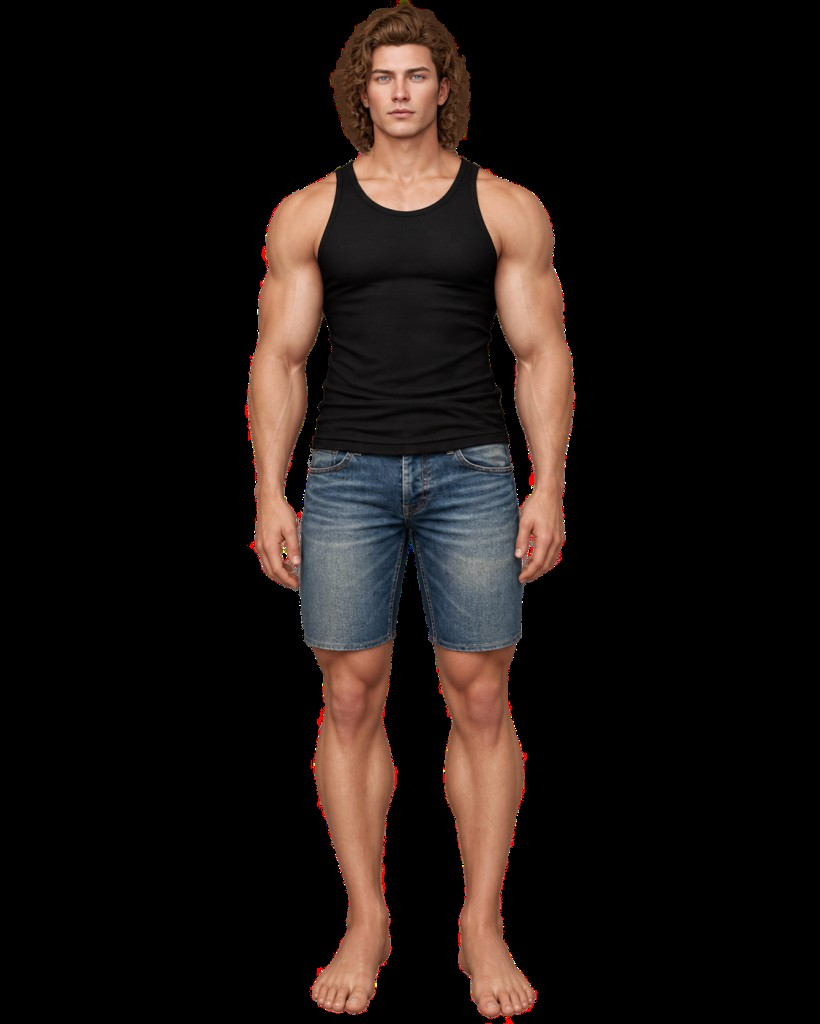
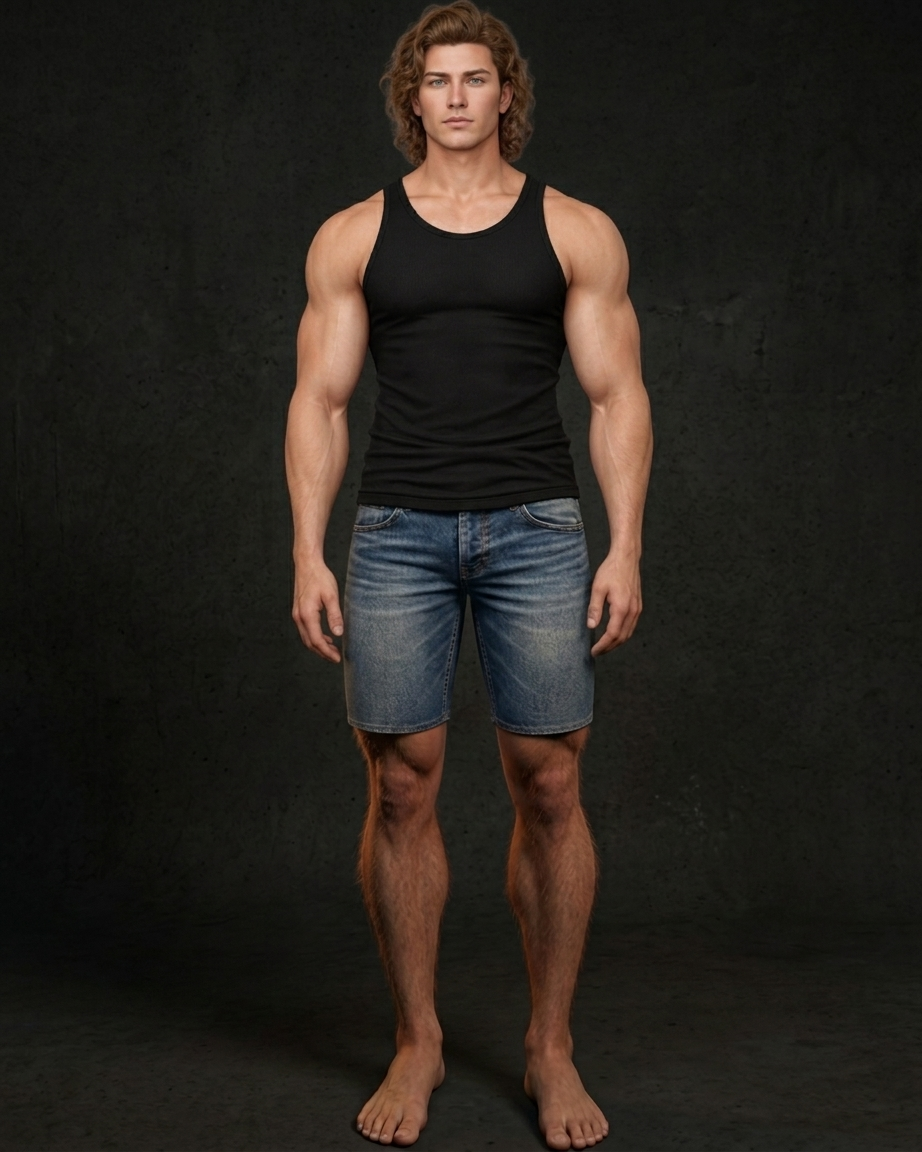
added xander to bat

diff --git a/index.html b/index.html
@@ -1012,12 +1012,12 @@ function getGender(name) {
     const c = CHARACTERS.find(c => c.name === String(name || "").split(" ")[0]);
     return c ? c.gender : null;
 }
-const TRANSFORMS = ["Statue", "Cow", "Cat", "Dog", "Werewolf", "Fox", "Horse", "Pig", "Gender", "Puppet", "Bunny","Otter","Eevee","Squirrel","Robot","Doll","Dragon"];
+const TRANSFORMS = ["Statue", "Cow", "Cat", "Dog", "Werewolf", "Fox", "Horse", "Pig", "Gender", "Puppet", "Bunny","Otter","Eevee","Squirrel","Robot","Doll","Dragon","Bat"];
 
 const CHARACTER_MANIFEST = {
     "Alex": ["Bunny", "Pig","Dog","Cat","Gender"],
     "Roz": ["Werewolf","Cow","Eevee"],
-    "Xander": ["Robot", "Werewolf","Otter"],
+    "Xander": ["Robot", "Werewolf","Otter","Bat"],
     "Siobhán": ["Horse", "Cat", "Bunny","Fox","Otter","Pig","Doll","Gender","Werewolf","Dog","Statue","Puppet"],
     "Tex": ["Cow", "Cat","Werewolf","Horse"],
     "Cassandra": [],

diff --git a/beta.html b/beta.html
@@ -1269,12 +1269,12 @@ function getGender(name) {
     const c = CHARACTERS.find(c => c.name === String(name || "").split(" ")[0]);
     return c ? c.gender : null;
 }
-const TRANSFORMS = ["Statue", "Cow", "Cat", "Dog", "Werewolf", "Fox", "Horse", "Pig", "Gender", "Puppet", "Bunny","Otter","Eevee","Squirrel","Robot","Doll","Dragon"];
+const TRANSFORMS = ["Statue", "Cow", "Cat", "Dog", "Werewolf", "Fox", "Horse", "Pig", "Gender", "Puppet", "Bunny","Otter","Eevee","Squirrel","Robot","Doll","Dragon","Bat"];
 
 const CHARACTER_MANIFEST = {
     "Alex": ["Bunny", "Pig","Dog","Cat","Gender"],
     "Roz": ["Werewolf","Cow","Eevee"],
-    "Xander": ["Robot","Werewolf","Otter"],
+    "Xander": ["Robot","Werewolf","Otter","Bat"],
     "Siobhán": ["Horse", "Cat", "Bunny","Fox","Otter","Pig","Doll","Gender","Werewolf","Dog","Statue","Puppet"],
     "Tex": ["Cow", "Cat","Werewolf","Horse"],
     "Cassandra": [],
